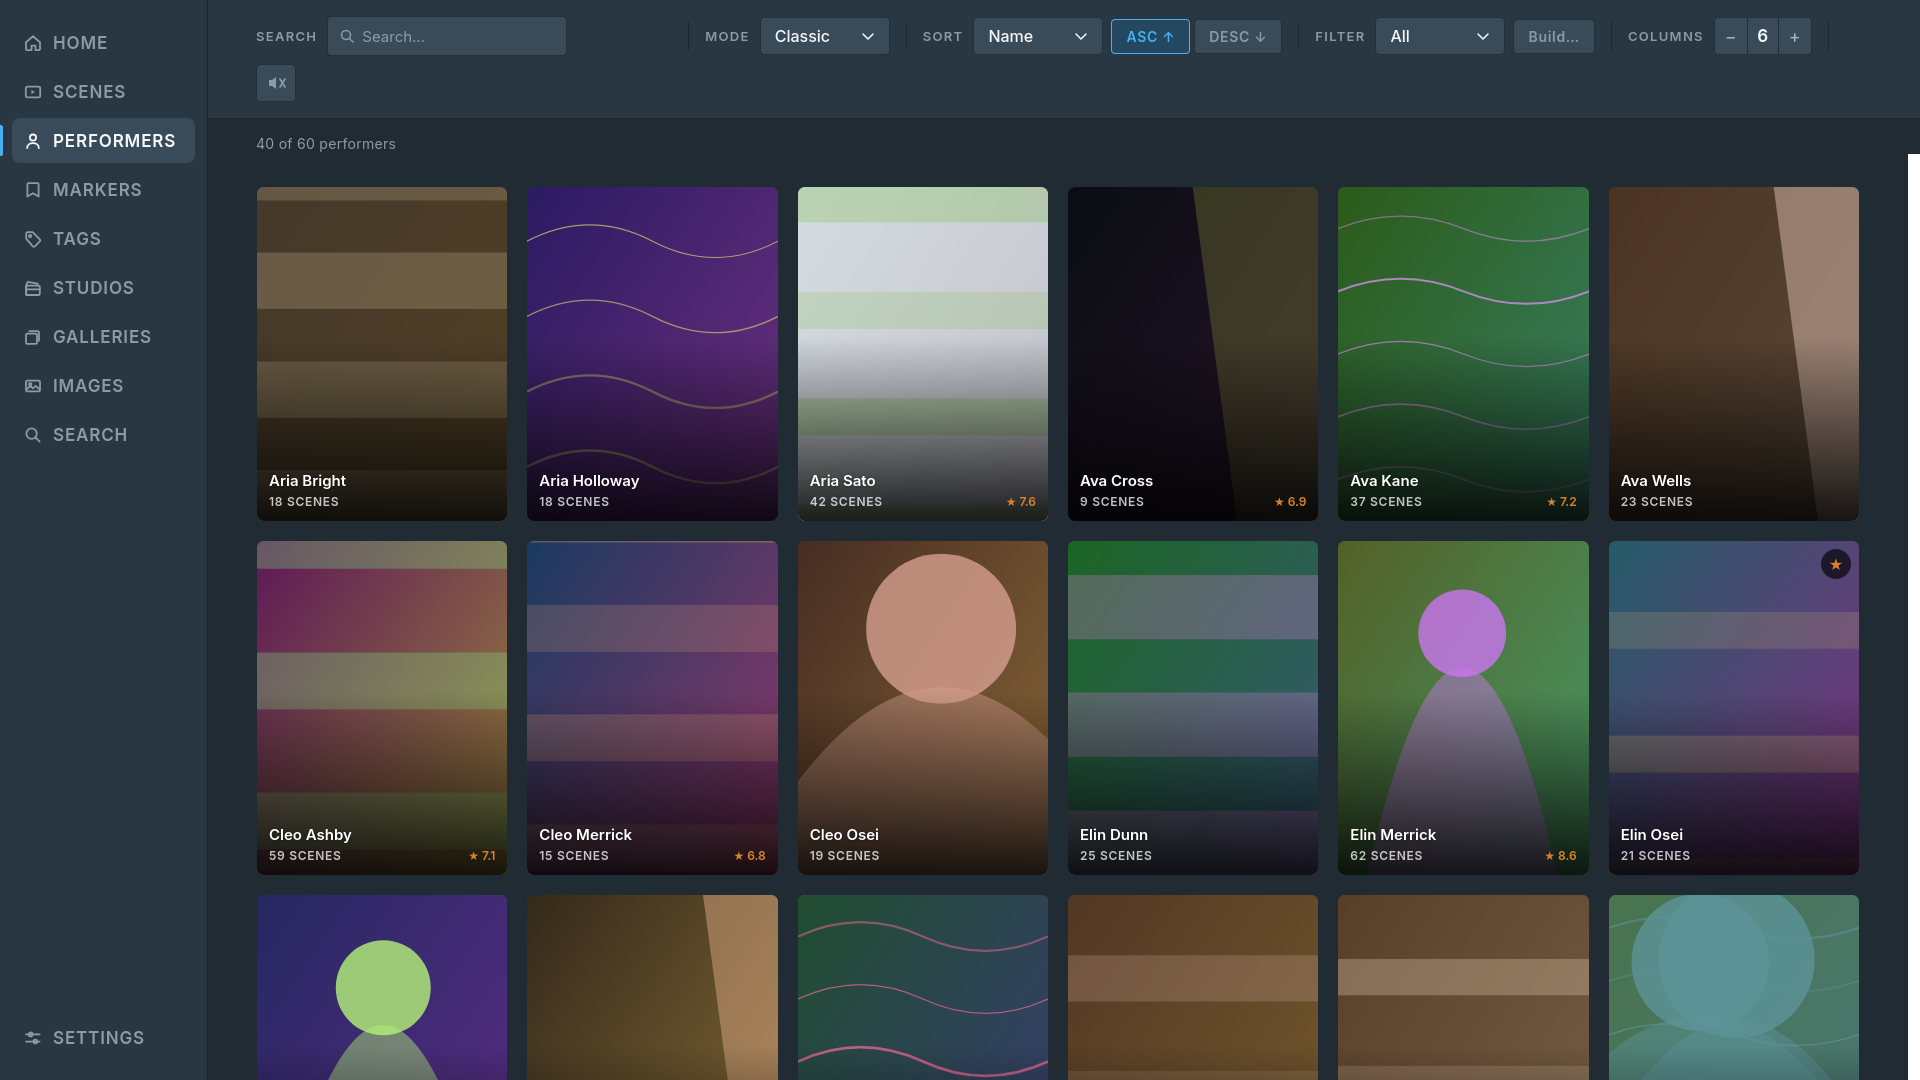
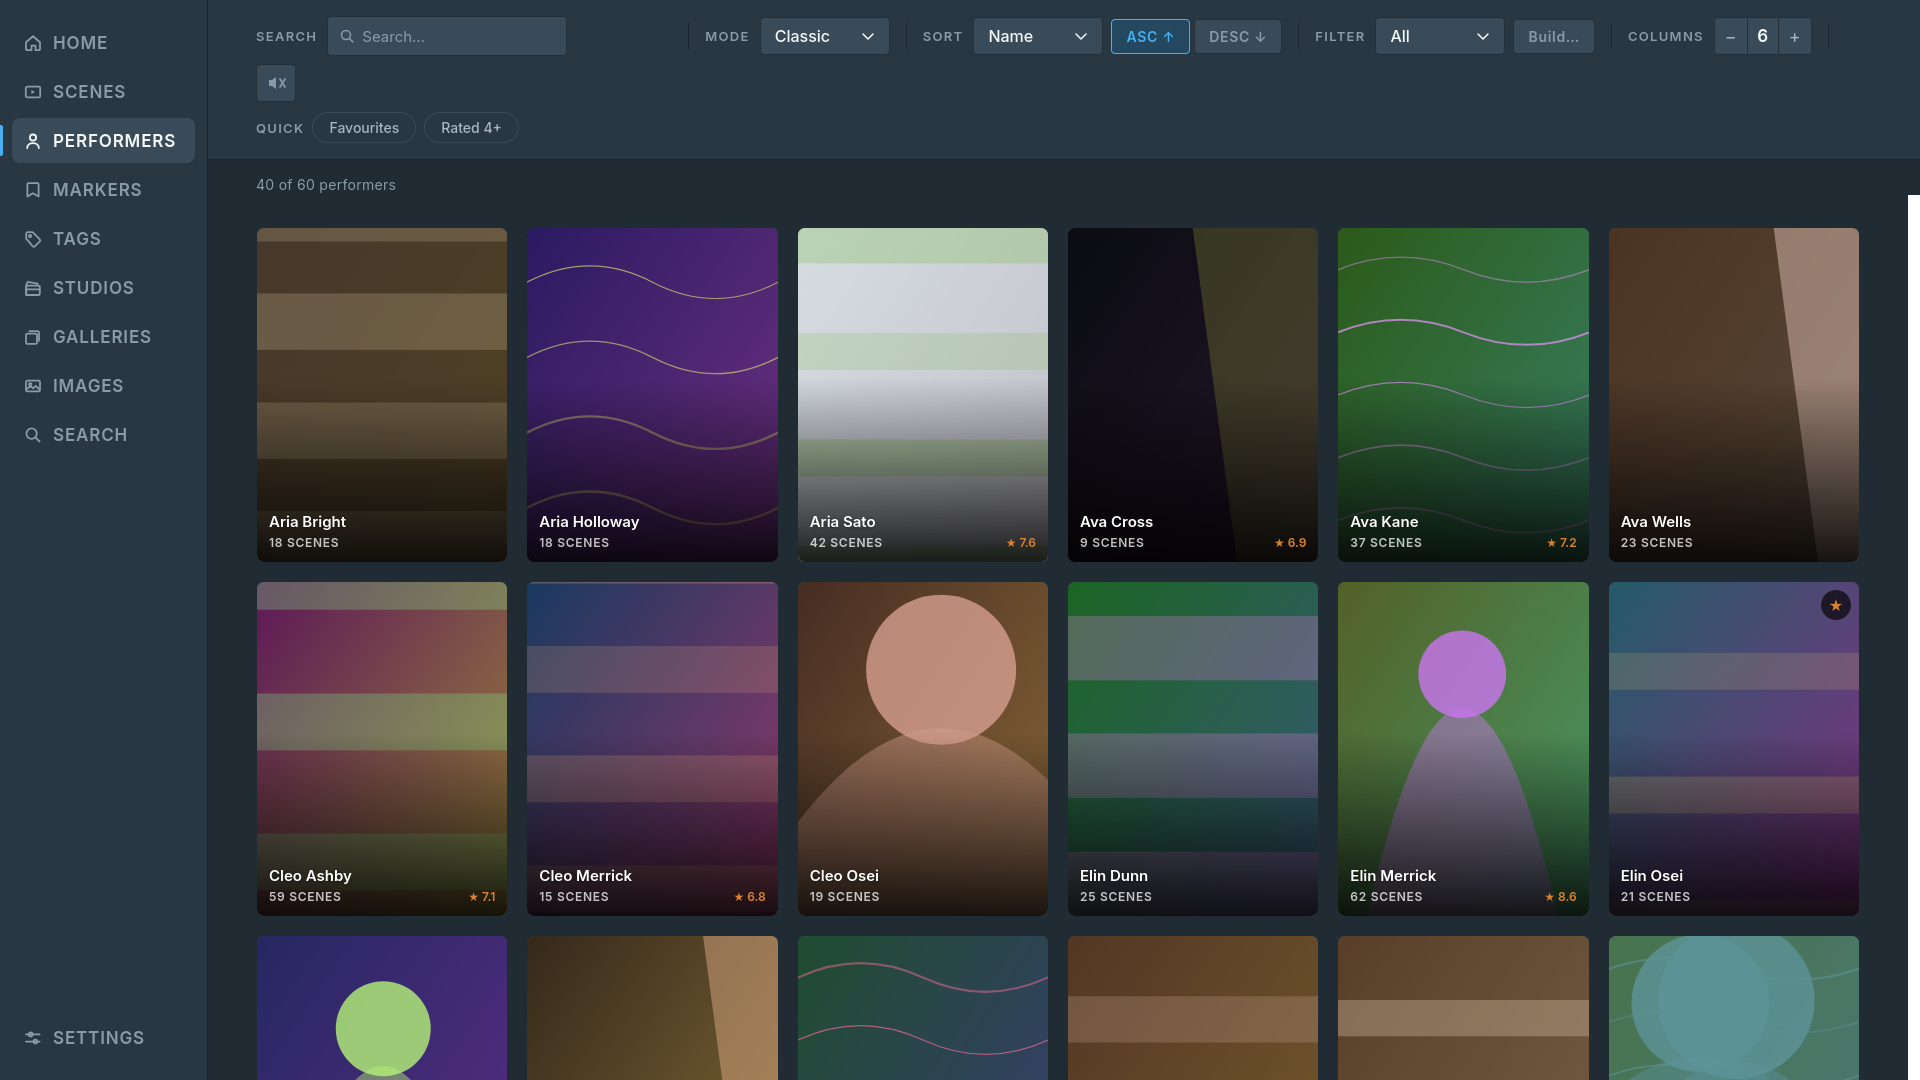
Refresh features and screenshots for 0.41.0

diff --git a/index.html b/index.html
@@ -85,7 +85,11 @@
         <article class="card">
           <h3>Quick filters</h3>
           <p>One-press chips like Unwatched, Rated 4+ and Has markers, alone or combined with
-             the filter.</p>
+             the filter; Performers, Tags and Studios have their own.</p>
+        </article>
+        <article class="card">
+          <h3>Random scene</h3>
+          <p>One press plays a scene from the filter and search on screen.</p>
         </article>
         <article class="card">
           <h3>Scene detail</h3>
@@ -94,8 +98,13 @@
         </article>
         <article class="card">
           <h3>Performer pages</h3>
-          <p>Full profile, links and tags beside scene, image and gallery counts; rate and
-             favourite in place.</p>
+          <p>Full profile with images, galleries and tags one press away: the counts open that
+             performer's listings, a tag opens its scenes. Rate and favourite in place.</p>
+        </article>
+        <article class="card">
+          <h3>Tag and studio info</h3>
+          <p>Hold OK for description, aliases, hierarchy and counts; a count opens the matching
+             filtered listing.</p>
         </article>
         <article class="card">
           <h3>Image viewer</h3>
